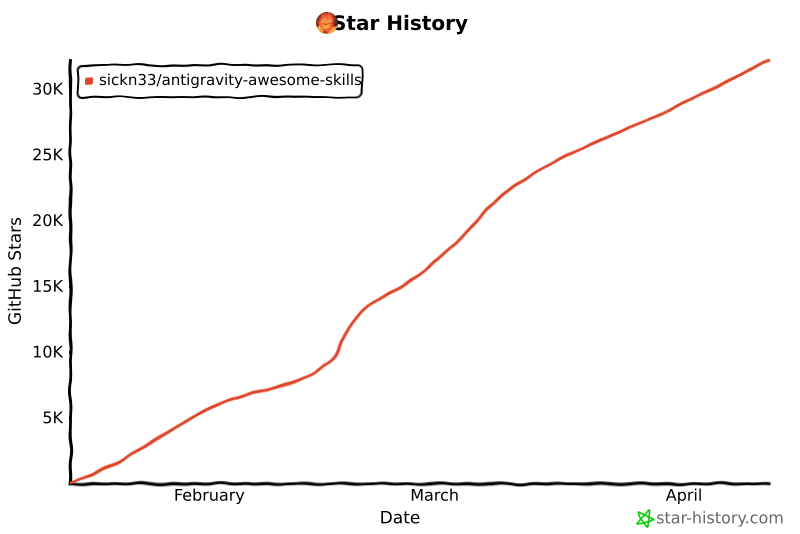
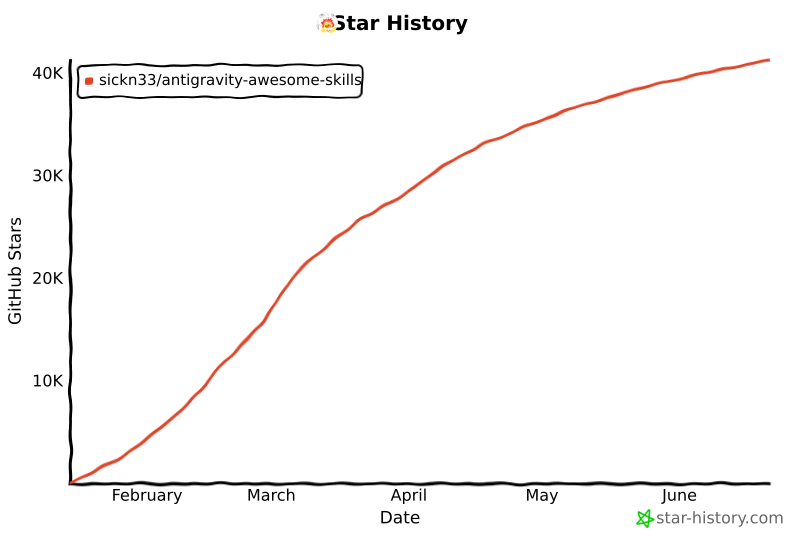
chore: update star history chart

diff --git a/README.md b/README.md
@@ -515,14 +515,14 @@ We officially thank the following contributors for their help in making this rep
 ## Star History
 
 <a href="https://www.star-history.com/#sickn33/antigravity-awesome-skills&type=date&legend=top-left">
- <img alt="Star History Chart" src="https://api.star-history.com/svg?repos=sickn33/antigravity-awesome-skills&type=date&legend=top-left&cache_bust=202606210740" />
+ <img alt="Star History Chart" src="https://api.star-history.com/svg?repos=sickn33/antigravity-awesome-skills&type=date&legend=top-left&cache_bust=202606221135" />
 </a>
 
 <a href="https://www.star-history.com/sickn33/antigravity-awesome-skills">
  <picture>
-   <source media="(prefers-color-scheme: dark)" srcset="https://api.star-history.com/chart?repos=sickn33/antigravity-awesome-skills&style=landscape1&theme=dark&cache_bust=202606210740" />
-   <source media="(prefers-color-scheme: light)" srcset="https://api.star-history.com/chart?repos=sickn33/antigravity-awesome-skills&style=landscape1&cache_bust=202606210740" />
-   <img alt="Star History Chart" src="https://api.star-history.com/chart?repos=sickn33/antigravity-awesome-skills&style=landscape1&cache_bust=202606210740" />
+   <source media="(prefers-color-scheme: dark)" srcset="https://api.star-history.com/chart?repos=sickn33/antigravity-awesome-skills&style=landscape1&theme=dark&cache_bust=202606221135" />
+   <source media="(prefers-color-scheme: light)" srcset="https://api.star-history.com/chart?repos=sickn33/antigravity-awesome-skills&style=landscape1&cache_bust=202606221135" />
+   <img alt="Star History Chart" src="https://api.star-history.com/chart?repos=sickn33/antigravity-awesome-skills&style=landscape1&cache_bust=202606221135" />
  </picture>
 </a>
 
